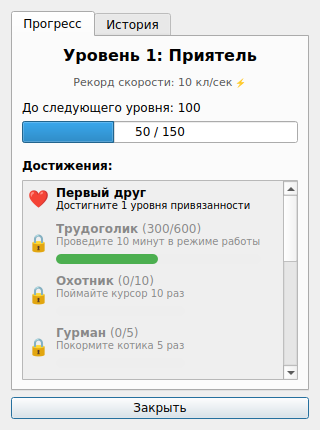
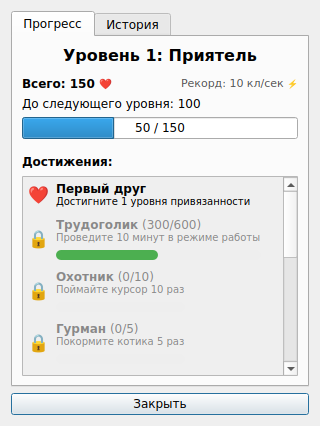
🎨 UI/UX: Fix layout bug in StatsDialog setup_progress_tab
🐞 Проблема: В диалоге статистики (вкладка прогресса) общие очки привязанности (points_label) были невидимы, так как они создавались в коде, но никогда не добавлялись в layout. Также stats_row и kps_label отображались некорректно.
🔍 Причина: points_label не добавлялся в stats_row, а сам stats_row не добавлялся в vertical layout прогресс-вкладки.
✅ Решение: Добавили points_label и kps_label в горизонтальный stats_row (с растяжкой посередине), и добавили stats_row в vertical layout.
🧪 Тестирование: Успешно запущены тесты и верификационный скрипт, проверена верстка на скриншотах.

diff --git a/src/ui/stats_dialog.py b/src/ui/stats_dialog.py
@@ -45,12 +45,16 @@ class StatsDialog(QDialog):
         # Общие очки и KPS в одной строке
         stats_row = QHBoxLayout()
         points_label = QLabel(f"Всего: {points} ❤")
+        points_label.setStyleSheet("font-weight: bold; font-size: 12px;")
 
         max_kps = self.db.get_stat("max_kps")
-        kps_label = QLabel(f"Рекорд скорости: {max_kps} кл/сек ⚡")
-        kps_label.setAlignment(Qt.AlignCenter)
-        kps_label.setStyleSheet("color: #555; font-size: 11px; margin-bottom: 5px;")
-        layout.addWidget(kps_label)
+        kps_label = QLabel(f"Рекорд: {max_kps} кл/сек ⚡")
+        kps_label.setStyleSheet("color: #555; font-size: 11px;")
+
+        stats_row.addWidget(points_label)
+        stats_row.addStretch()
+        stats_row.addWidget(kps_label)
+        layout.addLayout(stats_row)
 
         # Прогресс бар
         if points_for_next_level > 0:
